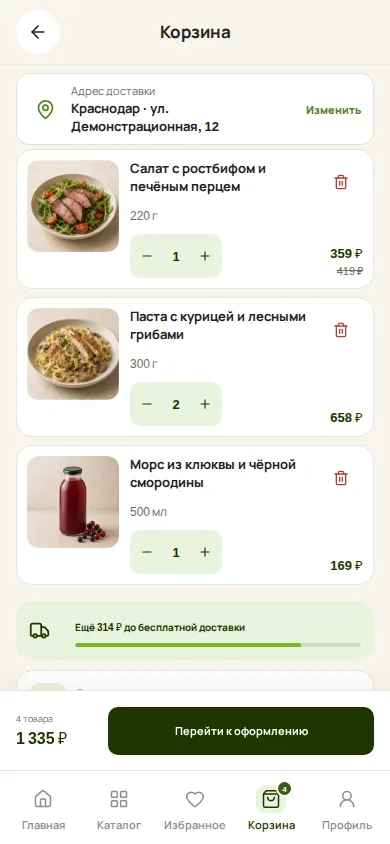
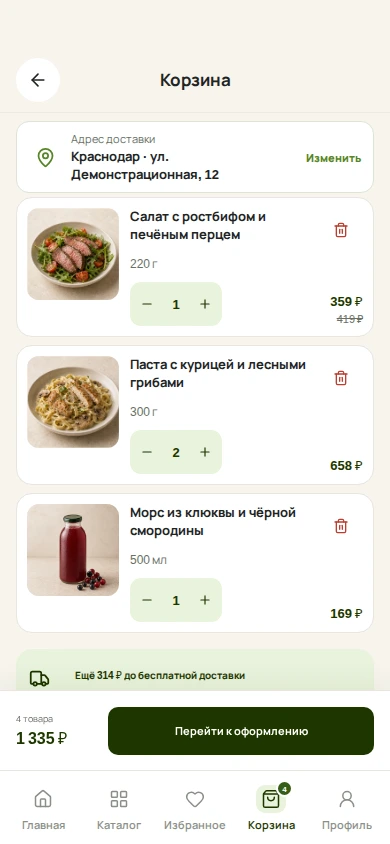
Fix Dynamic Island safe areas

diff --git a/src/case.css b/src/case.css
@@ -450,10 +450,10 @@ img {
 .case-device__speaker {
   position: absolute;
   z-index: 4;
-  top: 8px;
+  top: calc(var(--device-width) * 0.025);
   left: 50%;
   width: 33%;
-  height: 21px;
+  height: calc(var(--device-width) * 0.066);
   border-radius: 999px;
   background: #182016;
   transform: translateX(-50%);
@@ -2339,11 +2339,6 @@ img {
     border-width: 5px;
     opacity: 0.92;
     transform: rotate(5deg);
-  }
-
-  .case-device__speaker {
-    top: 6px;
-    height: 16px;
   }
 
   .food-object--salad {

diff --git a/src/App.css b/src/App.css
@@ -22,6 +22,7 @@
   --nav-height: 74px;
   --control-height: 44px;
   --mobile-width: 430px;
+  --app-safe-top: max(48px, env(safe-area-inset-top, 0px));
 }
 
 button {
@@ -67,6 +68,7 @@ a {
   width: 100%;
   max-width: var(--mobile-width);
   height: 100dvh;
+  padding-top: var(--app-safe-top);
   overflow: hidden;
   background: var(--milk);
   color: var(--graphite);
